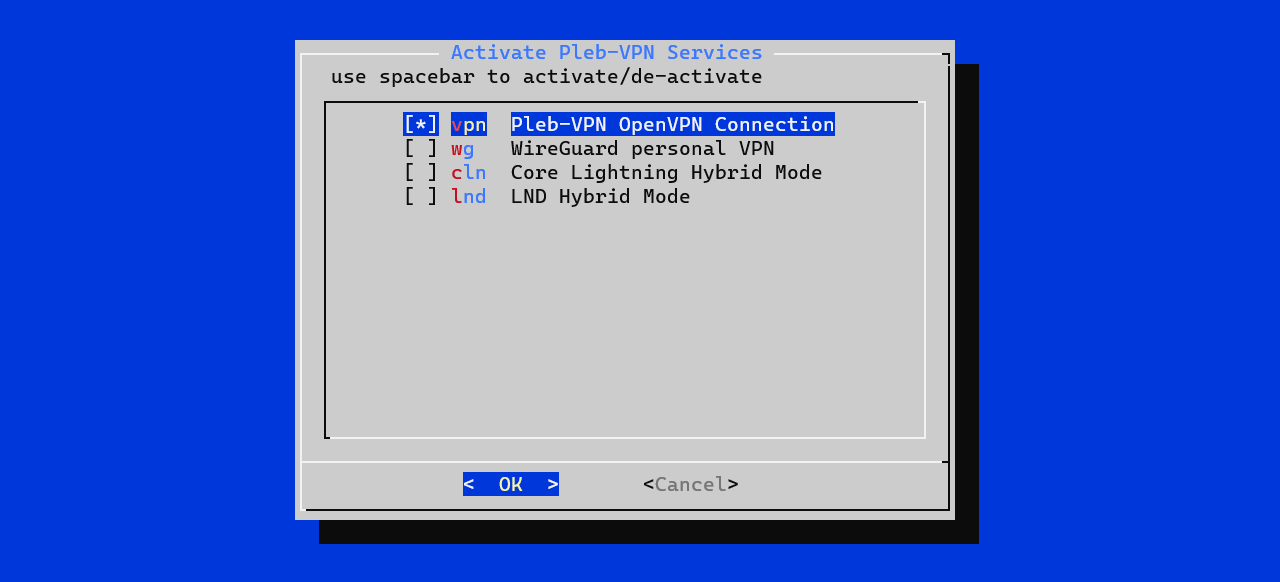
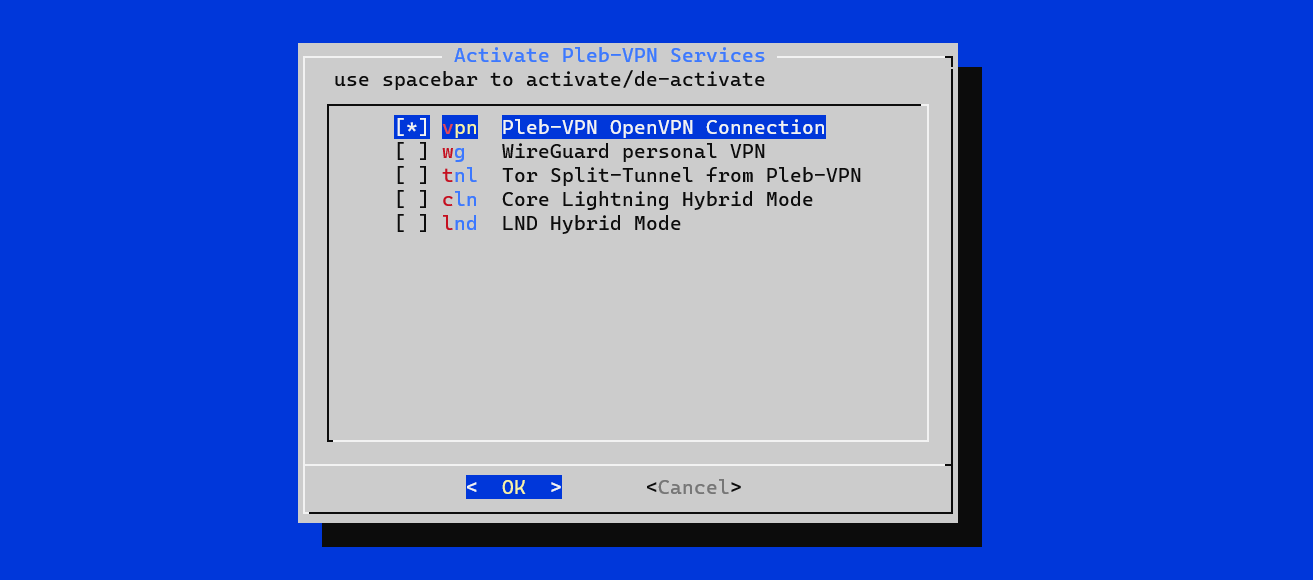
update README.me

Changed region(s): [[0.2188, 0.0621, 0.7812, 0.931], [0.25, 0.931, 0.75, 0.9621]]

diff --git a/README.md b/README.md
@@ -48,6 +48,7 @@ increase the availability of clearnet/hybrid nodes on the lightning network!**
     - [Connect the VPN](#connect-the-vpn)
     - [Go Hybrid](#go-hybrid)
     - [Installing WireGuard](#installing-wireguard)
+    - [Split-Tunneling tor] (#split-tunneling-tor)
     - [Recurring Payments](#recurring-payments)
     - [Updates or Uninstalling](#updates-or-uninstalling)
 
@@ -65,7 +66,9 @@ will not release your home IP to the outside world.
 Pleb-VPN provides easy Raspiblitz menu access to install and configure OpenVPN,
 and then configure hybrid mode on or off for either LND or Core Lightning (or
 both). Pleb-VPN configures the node such that if the VPS goes offline you will
-not accidentally release your home IP (called a killswitch).
+not accidentally release your home IP (called a killswitch). Pleb-VPN also allows
+as of version 0.9.1 for you to optionally split-tunnel tor off of the VPN. See FAQ 
+and Split-Tunneling Tor below for more details.
 
 Pleb-VPN also provides easy Raspiblitz menu access to install and configure WireGuard,
 a private VPN service that will run through the VPS, encrypted end-to-end from the
@@ -86,14 +89,15 @@ card for Raspiblitz updates.**
 **How is this different than TunnelSats?**  
 Good question. It's really not that much different. TunnelSats uses one or more
 shared servers and provides you with a cert to connect to them, only it uses WireGuard
-instead of OpenVPN for the connection. TunnelSats has an advantage in that it
-split-tunnels tor and clearnet, so if the VPN server drops offline you still have
-tor, Pleb-VPN does not (it's in the works). TunnelSats is also available for other node implementations 
-easily, like Umbrel or MyNode. However, Pleb-VPN is cheaper, and encourages Plebs to 
-collaborate to make the lightning network more decentralized (less reliance on one or 
-two providers) and more robust (more hybrid/clearnet nodes). Plus, it comes with a private
-VPN already integrated (although, full discosure, TunnelSats with ZeroTier as a private VPN 
-is a very solid setup as well).
+instead of OpenVPN for the connection. TunnelSats configures split-tunneling such that
+the node's clearnet traffic is the ONLY thing going through the VPN, whereas Pleb-VPN 
+by default sends ALL TRAFFIC through the VPN, and gives you the option to configure 
+split-tunneling so that tor is the ONLY thing allowed to bypass the VPN. This allows 
+Pleb-VPN to run WireGuard over the VPN and allows you to run multiple nodes from one instance. 
+TunnelSats is also available for other node implementations easily, like Umbrel or MyNode. 
+However, Pleb-VPN is cheaper, and encourages Plebs to collaborate to make the lightning network 
+more decentralized (less reliance on one or two providers) and more robust (more 
+hybrid/clearnet nodes). Plus, it comes with a private VPN already integrated in WireGuard.
 
 **How secure is this?**  
 It's as secure as any VPN. The OpenVPN encryption is AES-256-CBC, and WireGuard uses
@@ -252,6 +256,40 @@ restarting nginx._
 Here's a screenshot of me accessing the blitz api via WireGuard on my
 phone using the 10.0.0.0 IP shown above:  
 ![BlitzAPIWireGuardAccess](pictures/blitzapiwireguardaccess.png)
+
+### Split-Tunneling Tor
+Split-tunneling is a feature that configures traffic from tor to bypass the VPN while still
+forcing everything else through the VPN. The killswitch remains enforced on your firewall,
+so if the VPN drops, no clearnet traffic will go out of your node to avoid accidentally doxing 
+your home IP (it will still allow SSH from the local LAN). However, enabling this will still allow 
+tor, so you will gain redundancy. 
+
+The other advantages to split-tunneling tor away from the VPN are that if there are multiple 
+tor users coming from the same server then tor will probably be slower from that server, so it 
+reduces congestion at the VPS. 
+
+To enable split-tunneling for tor, just activate it from the SERVICES menu. This will configure 
+tor traffic to skip the VPN by creating a special group called novpn, marking traffic generated by 
+that group, creating separate routing rules for marked traffic, and finally by adding tor to that 
+group. 
+
+After the script runs, it will run through a series of tests to determine if it was successful. These 
+tests take some time (up to 12 minutes) depending on how long it takes tor to re-establish a circuit 
+using the new routing. After this is complete, you should get a status screen that looks like this:
+![SplitTunnelTorStatus](pictures/splittunneltorstatus.png)
+
+The way it checks the split-tunneling is as follows:  
+- check current IP (should be VPN IP) by running `curl https://api.ipify.org`  
+- disable the VPN `sudo systemctl stop openvpn@plebvpn`
+- check if clearnet is accessible (shouldn't be) `curl https://api.ipify.org`  
+- check if tor is accessible (should be) `torify curl http://api.ipify.org`
+- restart Pleb-VPN `sudo systemctl start openvpn@plebvpn`
+- check clearnet IP (should be VPN IP) `curl https://api.ipify.org`
+_Note: if you run a status check of tor-split-tunneling immediately after boot or after restarting
+tor it will likely fail to connect over tor. It takes about a minute for the controller to identify 
+that tor is running and add it to the novpn cgroup, and then tor has to re-establish a circuit. If this 
+check fails, as long as it doesn't fail such that clearnet is accessible with the VPN off, wait a 
+few minutes and try again._
 
 ### Recurring Payments
 Lastly, let's check out payments. Payments were included in this to encourage VPS 
